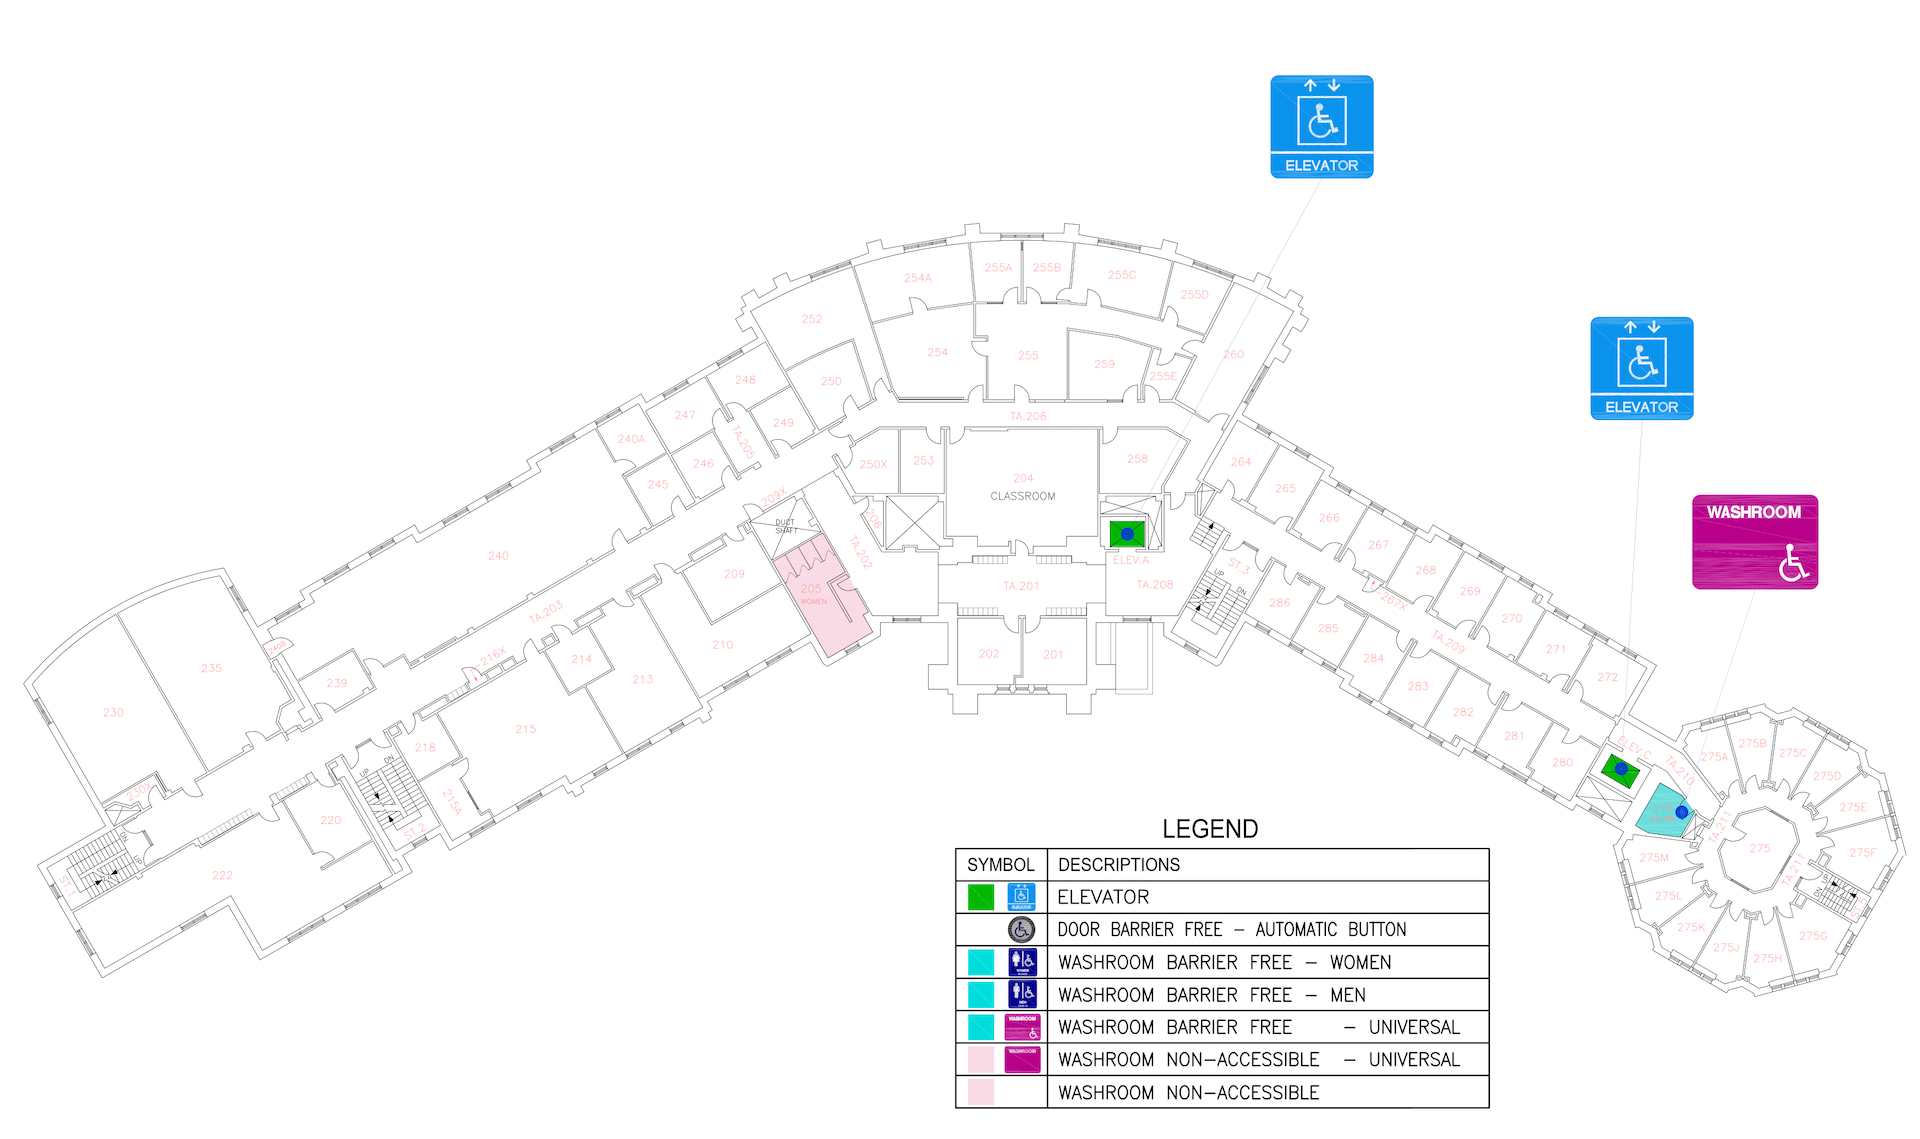
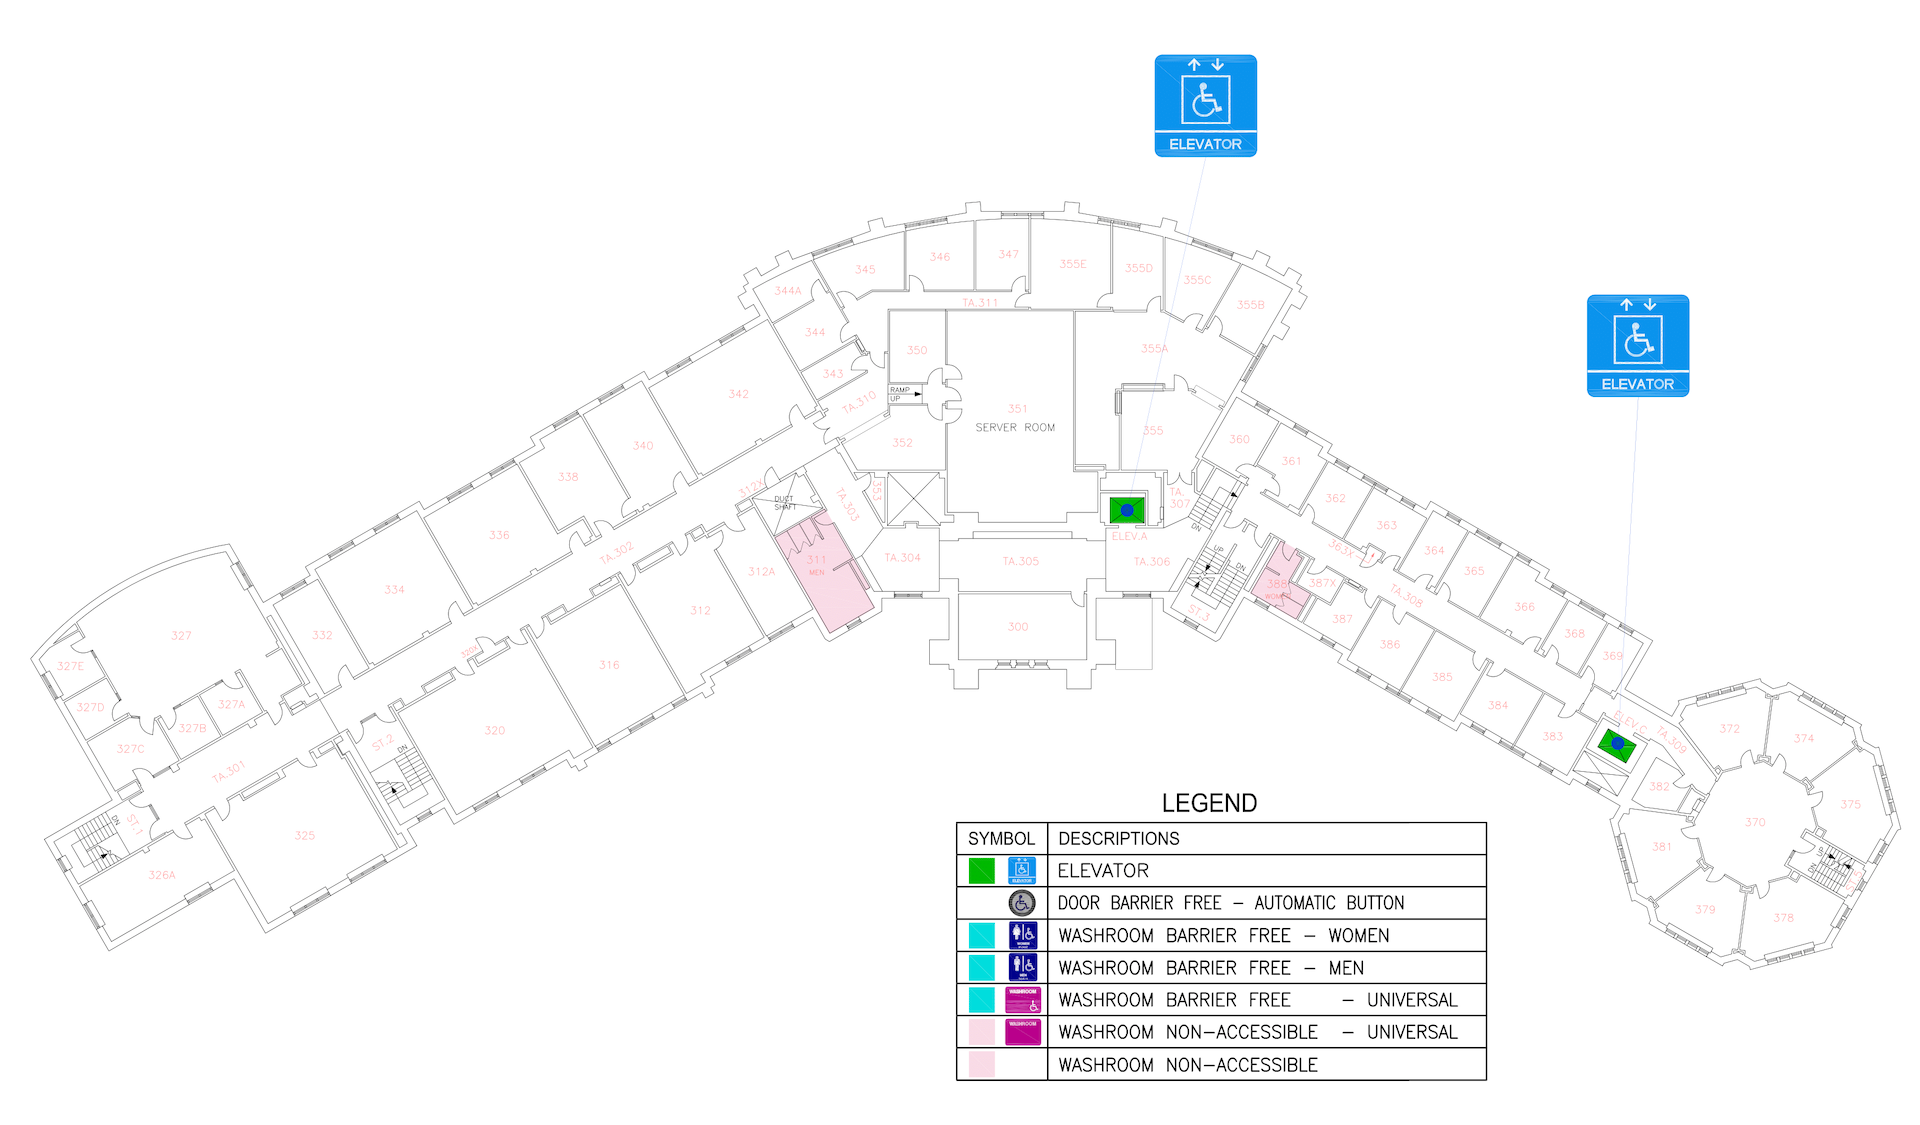
Fixed indexing issues. Renamed map files. Fixed the POI dropdown display (including update function) - Tomas Garcia

diff --git a/src/main/java/org/example/SidePanel.java b/src/main/java/org/example/SidePanel.java
@@ -134,8 +134,7 @@ public class SidePanel extends JLayeredPane {
     }
 
     private static String[] makePoiNameList() {
-        System.out.println(MapPanel.getFloorNum());
-        int floorNum = MapPanel.getFloorNum() - 1;
+        int floorNum = MapPanel.getFloorNum();
         JSONArray jsonPois = Maps.getMapBuilding().getFloors()[floorNum].getPois();
         int numPois = jsonPois.length();
 
@@ -159,8 +158,9 @@ public class SidePanel extends JLayeredPane {
     }
 
     public static void updateDropDown() {
-        poiList.remove(poiDrop);
-        poiList.add(addPoiDropdown());
+        String[] poiNames = makePoiNameList();
+        DefaultComboBoxModel<String> model = new DefaultComboBoxModel<>( poiNames );
+        poiDrop.setModel(model);
     }
 
     /** Enables or disables a POI type layer from the map

diff --git a/src/main/java/org/example/Maps.java b/src/main/java/org/example/Maps.java
@@ -20,7 +20,6 @@ public class Maps extends JFrame {
     private static Building mapBuilding;
     Maps(String choice) {
         frame = this;
-        this.buildingCode = choice;
         buildingCode = choice;
         mapBuilding = new Building(buildingCode);
         setTitle("Western Campus Navigation - Map Page");
@@ -42,8 +41,9 @@ public class Maps extends JFrame {
 
         BottomPanel botPan = new BottomPanel(back);
 
-        add(new SidePanel(), BorderLayout.WEST);
         add(new MainPanel(botPan), BorderLayout.CENTER);
+        add(new SidePanel(), BorderLayout.WEST);
+
 //        pack();
         setVisible(true);
 

diff --git a/src/main/java/org/example/SearchPanel.java b/src/main/java/org/example/SearchPanel.java
@@ -22,7 +22,7 @@ public class SearchPanel extends JPanel {
 
         // Retrieves the data to determine the building name and the floor name
         Data d = Data.getInstance();
-        Object floorName = d.savedData.getJSONObject(buildingName).getJSONArray("floors").getJSONObject(floorNum-1).get("name");
+        Object floorName = d.savedData.getJSONObject(buildingName).getJSONArray("floors").getJSONObject(floorNum).get("name");
         buildingName = String.valueOf(d.savedData.getJSONObject(buildingName).getString("name"));
 
         // Creates the floor label

diff --git a/src/main/java/org/example/Data.java b/src/main/java/org/example/Data.java
@@ -67,7 +67,7 @@ public final class Data {
      @return The JSONArray containing the POIs for the given building and floor number.
      */
     public JSONArray getPois(String building, int floorNum) {
-        return savedData.getJSONObject(building).getJSONArray("floors").getJSONObject(floorNum - 1).getJSONArray("pois");
+        return savedData.getJSONObject(building).getJSONArray("floors").getJSONObject(floorNum).getJSONArray("pois");
     }
 }
 

diff --git a/src/main/java/org/example/BottomPanel.java b/src/main/java/org/example/BottomPanel.java
@@ -68,7 +68,7 @@ public class BottomPanel extends JPanel implements ActionListener {
                 if (src == floor[i]) {
                      // Calls the changeLabel to essentially refresh the top panel
                     SearchPanel.changeLabel(i);
-                    changeFloor(i+1);
+                    changeFloor(i);
             }
             }
     }

diff --git a/src/main/java/org/example/MapPanel.java b/src/main/java/org/example/MapPanel.java
@@ -27,7 +27,7 @@ public class MapPanel extends JPanel {
         buildingCode = Maps.getBuildingCode();
         setLayout(new BorderLayout());
 
-        floorNum = 1;
+        floorNum = 0;
 
         imageLabel = new JLabel();
         mapScroll = new JScrollPane();
